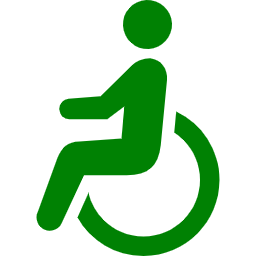
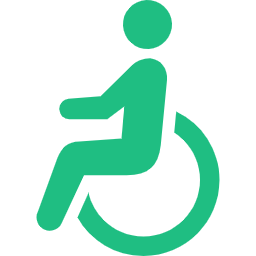
アイコンの色変更とサロンの問い合わせ先追加

Changed region(s): [[0.125, 0.0, 0.875, 1.0]]

diff --git a/index.html b/index.html
@@ -84,6 +84,7 @@
             <li><img class="syurui-icon" src="./img/icon-syuurou.png" alt="就労支援のアイコン">就労支援</li>
             <li><img class="syurui-icon" src="./img/icon-soudan.png" alt="相談窓口のアイコン">相談窓口</li>
         </ul>
+        <p>掲載しているサロンに関するお問い合わせは、以下までお願いします。<br><br>引佐地区社会福祉協議会<br>月～金 10時～15時<br>電話/FAX：053-542-3206</p>
     </div>
     <a id="to-map" href="./map.html">はじめる</a>
 

diff --git a/css/index.css b/css/index.css
@@ -153,7 +153,7 @@ header {
     margin: 0 20px;
 }
 #description-box ul {
-    margin: 15px 20px 15px 50px;
+    margin: 10px 20px 30px 50px;
 }
 #description-box ul .syurui-icon {
     display: inline-block;
